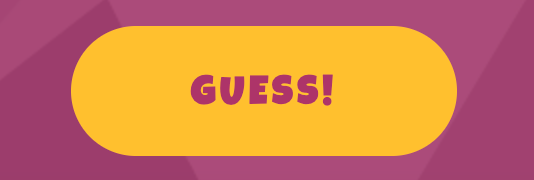
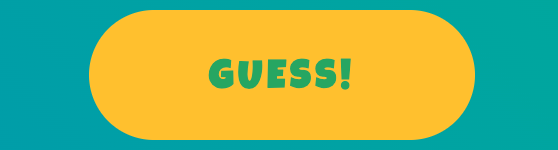
Do complete overhaul of background by removing pattern and replacing with animated  gradient background

diff --git a/assets/css/styles.css b/assets/css/styles.css
@@ -7,17 +7,24 @@
 }
 
 body {
-    background-color: #9F2B68;
     display: flex;
     justify-content: center;
     align-items: center;
     margin: 0;
-    background-image: url('../images/triangle.png');
-    background-repeat: no-repeat;
+    background: linear-gradient(45deg, #457dc7, #0087c5, #0ea89d, #ffc000) fixed;
+    background-size: 200%;
+    animation: animate 5s ease infinite;
     font-size: 20px;
     font-family: "Hind", sand-serif;
     font-weight: 900;
     color: whitesmoke;
+}
+
+/* Animated gradient background */
+@keyframes animate {
+    0%{background-position: 0% 50%}
+    50%{background-position: 100% 50%}
+    100%{background-position: 0% 50%}
 }
 
 .logo {
@@ -48,7 +55,7 @@ body {
 }
 
 .guessed-letters {
-    color: #faa0a0;
+    color: #ffe5b4;
     padding: 0;
     list-style: none;
     font-family: "Hind", sand-serif;
@@ -80,7 +87,7 @@ input {
     margin: 0.5em;
     padding: 0.5em;
     outline: 2px solid #ffc000;;
-    color: #9f2b68;
+    color: #34A65E;
     text-transform: uppercase;
 }
 
@@ -95,7 +102,7 @@ input:focus {
     background-color: #ffc000;
     border-radius: 50px;
     border-style: none;
-    color: #aa336a;
+    color: #34A65E;
     font-size: 1em;
     cursor: pointer;
     font-family: "Luckiest Guy", cursive;
@@ -119,7 +126,7 @@ input:focus {
     background-color: #ffc000;
     border-radius: 50px;
     border-style: none;
-    color: #aa336a;
+    color: #34A65E;
     font-size: 1em;
     cursor: pointer;
     font-family: "Luckiest Guy", cursive;

diff --git a/README.md b/README.md
@@ -16,7 +16,7 @@ The minigame is presented on a single page which is fully responsive across all 
 
 ![Word Venturis Logo](assets/images/wv-logo.png)
 
-The logo is created on Canva. The color scheme consists of three main colors, namely Amaranth #9F2B68, Golden Yellow #FFC000, and Whitesmoke. 
+The logo is created on Canva. The color scheme for the page consists of three main colors, namely Amaranth #9F2B68, Golden Yellow #FFC000, and Whitesmoke. 
 
 Google Font's Hind font is applied to the body of the page. Bungee Shade font is used for every guessed letter behind each question mark, while Luckiest Guy font is used for the text on both Guess and Restart buttons respectively.
 
@@ -30,19 +30,37 @@ Google Font's Hind font is applied to the body of the page. Bungee Shade font is
 
 ![Letter Input](assets/readme-images/input.png)
 
-- During the gameplay, some messages will appear to monitor the user's progress. As seen in the image above, one message visible from start to end counts and monitors the remaining guesses the user has until it turns zero. Other messages will pop up just above the question marks which will indicate a correct guess, an incorrect guess, a blank input, a warning to not input a number or a symbol, as well as to remind the user not to input a letter that has already been picked before. Any letter selected will also be displayed just above the input box.
+- During the gameplay, some messages will appear to monitor the user's progress. As seen in the image above, one message visible from start to end counts and monitors the remaining guesses the user has until it runs out. Other messages will pop up just above the question marks which will indicate a correct guess, an incorrect guess, a blank input, a warning to not input a number or a symbol, and another warning to remind the user not to input a letter that has already been picked before. Any letter selected will also be displayed between the question marks and the remaining guesses message.
 
 - The user can click the Guess button for each attempt at guessing the word. 
 
 ![Guess Button](assets/readme-images/guess.png)
 
-- Two types of message, each accompanied with a .gif image, will be displayed as shown below.
+- Two types of message, each accompanied with a .gif image, will be displayed as shown below whenever the user wins or loses at the end.
 
-![Win Lose](assets/readme-images/gif-message.jpeg)
+![Win Lose](assets/readme-images/winandlose.jpeg)
 
-- And last but not least, the user will see a Restart Game button which replaces the Guess button whenever he or she wins or loses the minigame.
+- And last but not least, the user will see a Restart Game button which replaces the Guess button whenever the user runs out of attempts after winning or losing at the end. 
 
 ![Restart Button](assets/readme-images/restart.png)
+
+## Technologies
+
+- HTML5 - Provides the content and structure of Word Venturist.
+- CSS3 - Provides the styling for Word Venturist.
+- JavaScript - Provides interactivity for Word Venturist.
+- Gitpod - An integrated development environment to create and develop projects from scratch.
+- Github - Provides storage for codes and acts as a host to deploy live projects.
+- GoogleFonts - Provides chosen fonts for Word Venturist.
+- Canva - Used to create Word Venturist logo and partners' icons.
+- Emojipedia - Provides all emojis used on Word Venturist.
+- Toner - Provides all gif images used on Word Venturist.
+- AmIResponsive - Generates website mockup to check Word Venturist's responsiveness.
+- ChromeDevTools - Used for debugging purposes.
+- W3C-HTML - HTML validation service.
+- W3C-CSS - CSS validation service.
+- JSHint - JavaScript validation service.
+- Webformatter - Used for proper code indentation.
 
 ## Testing
 
@@ -113,6 +131,7 @@ Forking is used to create a copy of a repository, where it can be viewed and edi
 
 - The website [MDN](https://developer.mozilla.org/en-US/) was used as a guidance on how to write JavaScript code.
 - Code Institute's own Love Math project was also used as a reference.
+- Special credit is to be given to [Skillcrush](https://skillcrush.com/), another coding bootcamp which I took part in a few years ago but never finished as I lost my motivation back then. I can still access my lessons which makes it a bit easier to restart learning JS, as personally it is impossible for me to understand JS from only a single source or two.
 
 ### Content
 
@@ -121,11 +140,12 @@ Forking is used to create a copy of a repository, where it can be viewed and edi
 - Word Venturist logo was created on [Canva](https://www.canva.com/).
 - The fonts used were generated from [GoogleFonts](https://www.fonts.google.com/).
 - The patterned background was taken from [Arcadia](https://2020presidentsreport.arcadia.edu/hd-pattern-png-transparent-triangle-transparent-png-image-pattern-transparent-2048_1024/)
-- The website [HTMLColorCodes](https://htmlcolorcodes.com/) was used as a reference to determine the color combination.
+- The website [HTMLColorCodes](https://htmlcolorcodes.com/) was used as a reference to determine color combination.
+- The website [MyColor.Space](https://mycolor.space/) was used as a reference to determine animated gradient background.
 
 ### Acknowledgments
 
-I would like to thank my mentor [Akshat Garg](https://www.linkedin.com/in/akshatnitd/) for his support throughout my second milestone project, especially with the fact that I still have difficulties to refactor JS code to make it clearer and cleaner for others to read. I also give my thanks to Code Institute for the prototype project Love Math. And lastly, I am grateful to the Slack Community for the helpful review of my website.
+I would like to thank my mentor [Akshat Garg](https://www.linkedin.com/in/akshatnitd/) for his support throughout my second milestone project, especially due to the fact that I still have difficulties to refactor JS code to make it clearer and cleaner for others to read. I also give my thanks to Code Institute for the prototype project Love Math. And lastly, I am grateful to the Slack Community for the helpful review of my website.
 
 See you in the third milestone project!
 
